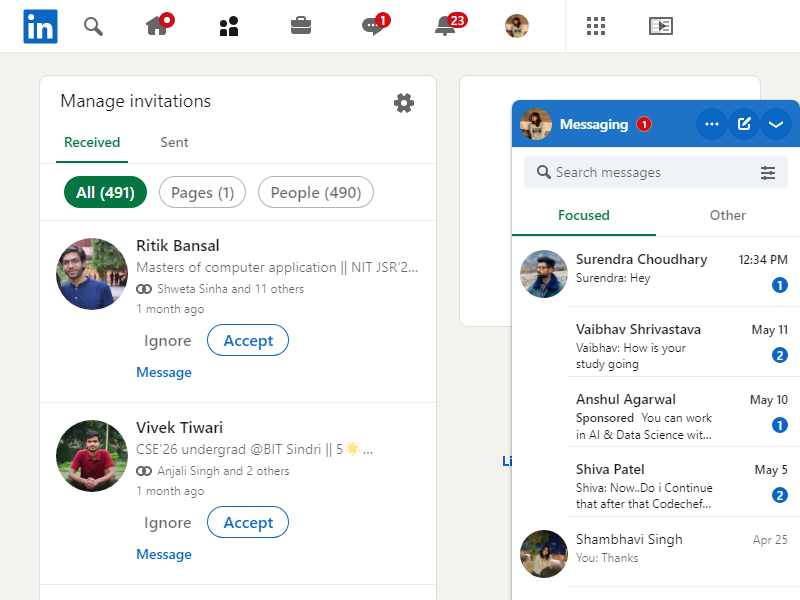
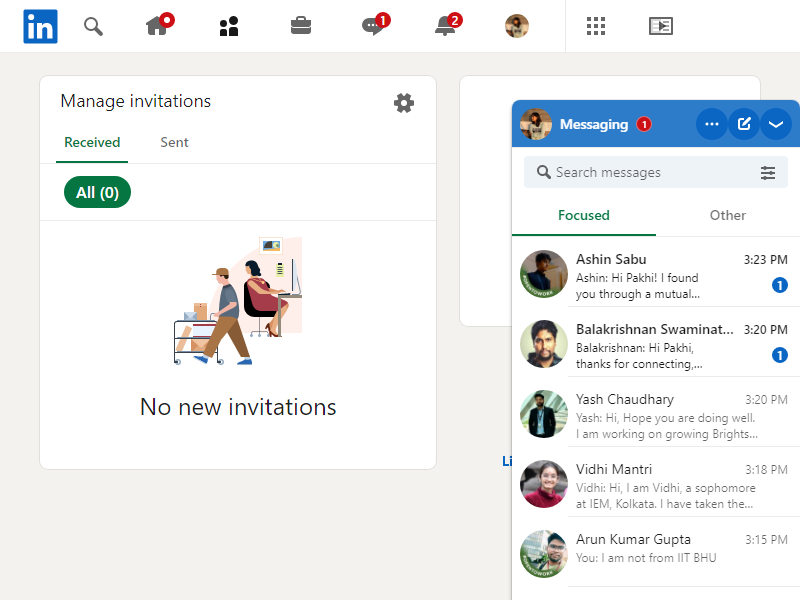
auto accept added

diff --git a/automate/acceptInvitation.js b/automate/acceptInvitation.js
@@ -1,7 +1,7 @@
 import {WEBSITE_SIGNIN_EMAIL_SELECTOR, WEBSITE_SIGNIN_PASSWORD_SELECTOR, WEBSITE_SIGNIN_SUBMIT_SELECTOR, USER_EMAIL, USER_PASSWORD} from '../constants.js'
 // import { navigatePages } from './naviagtion.js';
 
-export const signIn = async(page) => {
+export const signIn = async(page, singlePage) => {
 
     //signin using puppeteer
 
@@ -11,21 +11,27 @@ export const signIn = async(page) => {
     // await page.keyboard.type(USER_PASSWORD);
     // await page.click(WEBSITE_SIGNIN_SUBMIT_SELECTOR);
 
-
-
     await page.waitForTimeout(3000);
 
-    const isPresent = await page.$('#global-nav>div') ? true : false
+    const isPresent = await page.$('#global-nav > div') ? true : false
     await page.screenshot({ path: "linkedin.png" });
     
+    // to check if user is logged in
     if(isPresent) {
+
+        //extract all buttons with accept on it
         const buttons = await page.$x(
           "//button[contains(., 'Accept')]");
 
+        //iterate on the buttons and accept the requests
         for(let i = 0; i < buttons.length; i++) {
+
+            //click on button to accept
             await buttons[i].click()
         }
+        singlePage -= buttons.length;
     }
+    return singlePage
 }
 
 

diff --git a/automate/automate.js b/automate/automate.js
@@ -1,26 +1,26 @@
-import { signIn } from './login.js';
-import { WEBSITE } from '../constants.js';
+import { WEBSITE } from "../constants.js";
 import puppeteer from "puppeteer";
 import { readFile } from "fs/promises";
-
-
+import { navigatePages } from "./naviagtion.js";
 
 (async () => {
   //creates a page, navigates it to a URL
   const browser = await puppeteer.launch();
   const page = await browser.newPage();
 
+  //extract cookies for linkedin and store it for auto login
   const cookiesJSON = JSON.parse(
     await readFile(new URL("./linkedin.json", import.meta.url))
   );
 
+  //set cookies for a logged in session
   await page.setCookie(...cookiesJSON);
-  
 
+  //naviagte to invitations manager page
   await page.goto(WEBSITE);
 
-  // //Sign In process
-  await signIn(page);
+  await navigatePages(page);
 
+  //close the browser
   await browser.close();
 })();

diff --git a/automate/naviagtion.js b/automate/naviagtion.js
@@ -1,6 +1,21 @@
-export const navigatePages = async(page) => {
+import { signIn } from "./acceptInvitation.js";
 
-    // console.log('logged in')
-    // await page.$('#ember96')?console.log('success'):console.log('un');
-}
+export const navigatePages = async (page) => {
+  await page.waitForTimeout(3000);
 
+  //extract number of invitation pages
+  const numOfPages = await page.$x("/html//section/div/ul//button");
+
+  //check if only 1 page of invitation is there
+  let singlePage = (await page.$x("/html//nav/button[1]/span")).length;
+
+  //loop till all the invitations are accepted
+  for (let i = 0; i < numOfPages.length || singlePage > 0; i++) {
+
+    //reload page to refresh invitations
+    await page.reload();
+
+    //number of invitations on a single page if > 0 then keep accepting 
+    singlePage = await signIn(page);
+  }
+};
